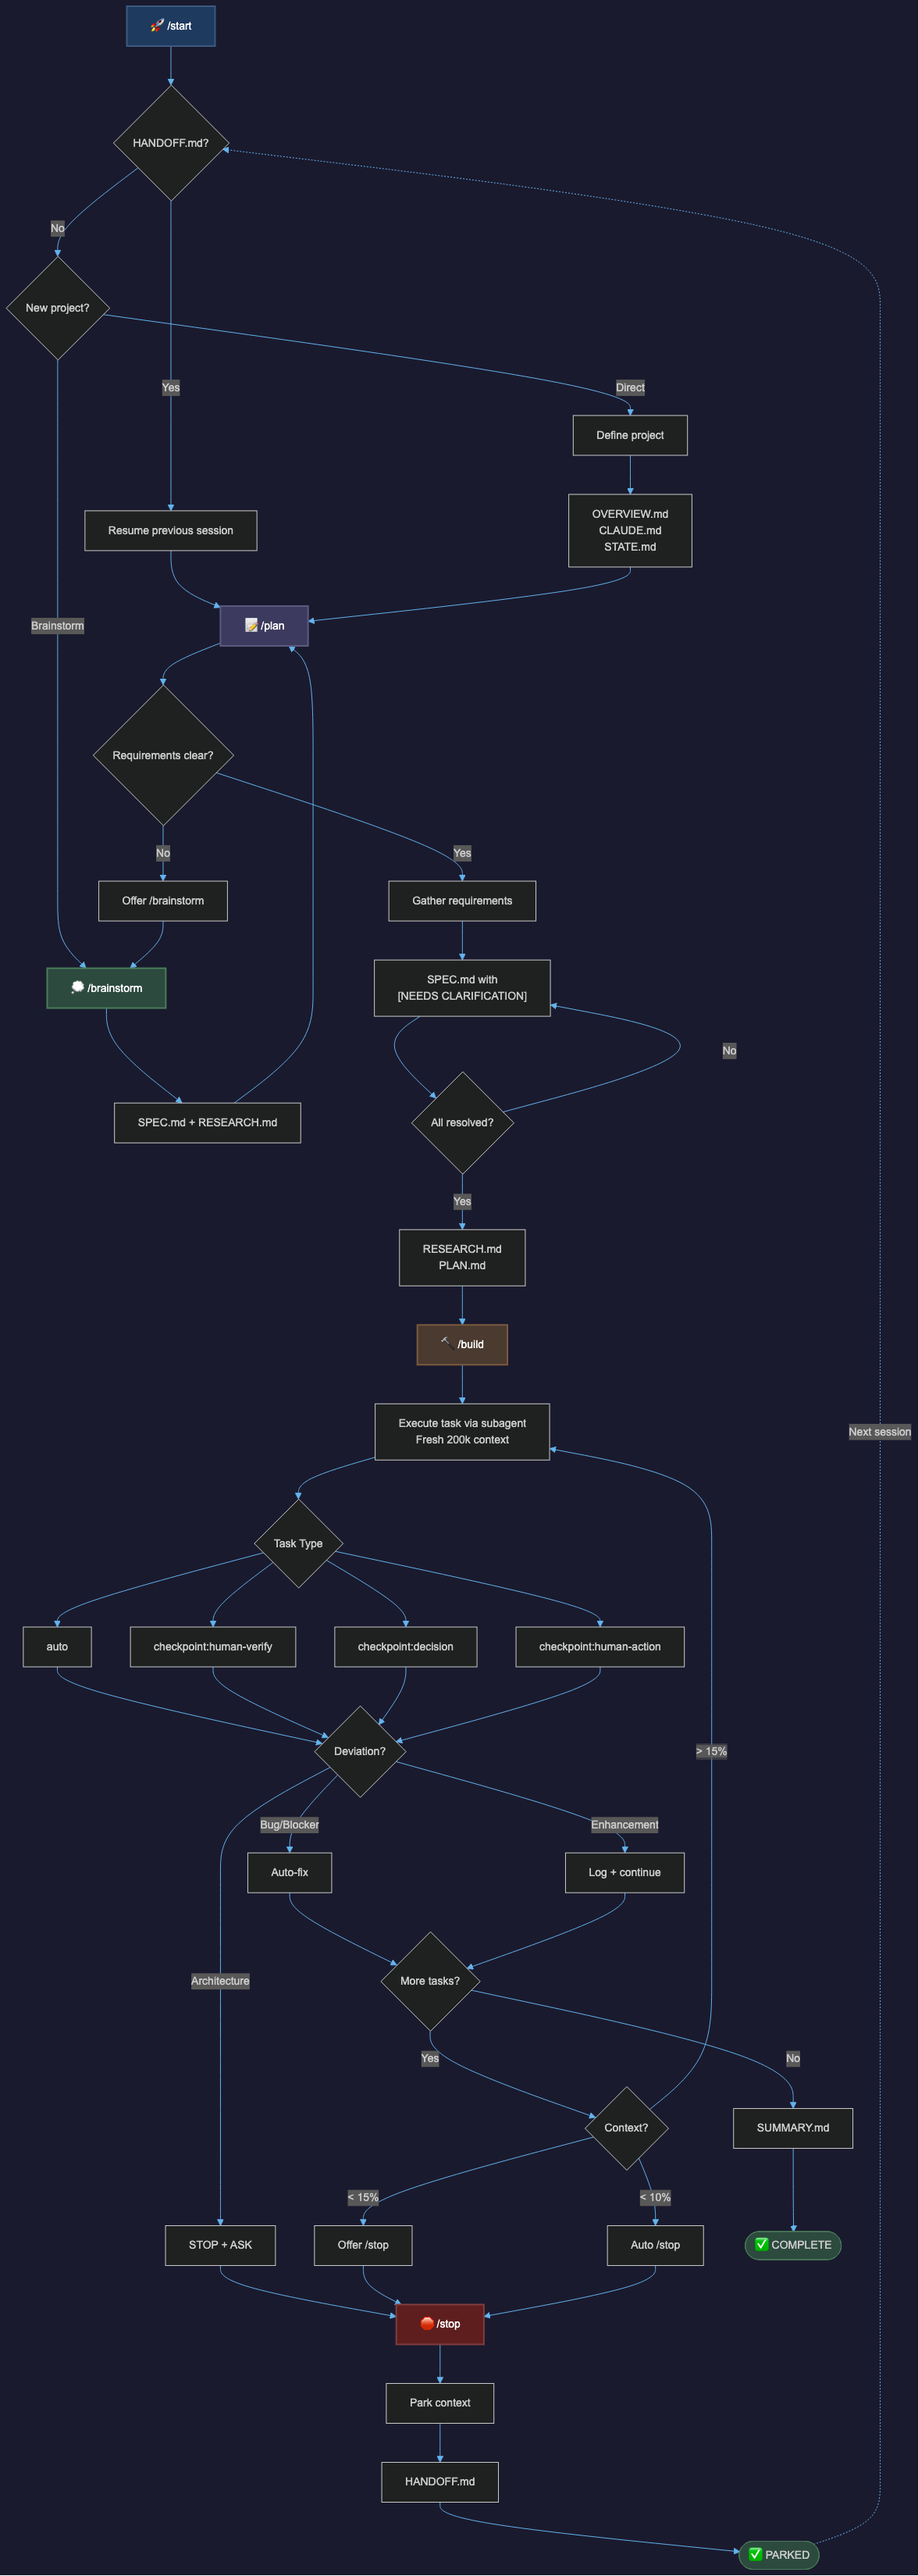
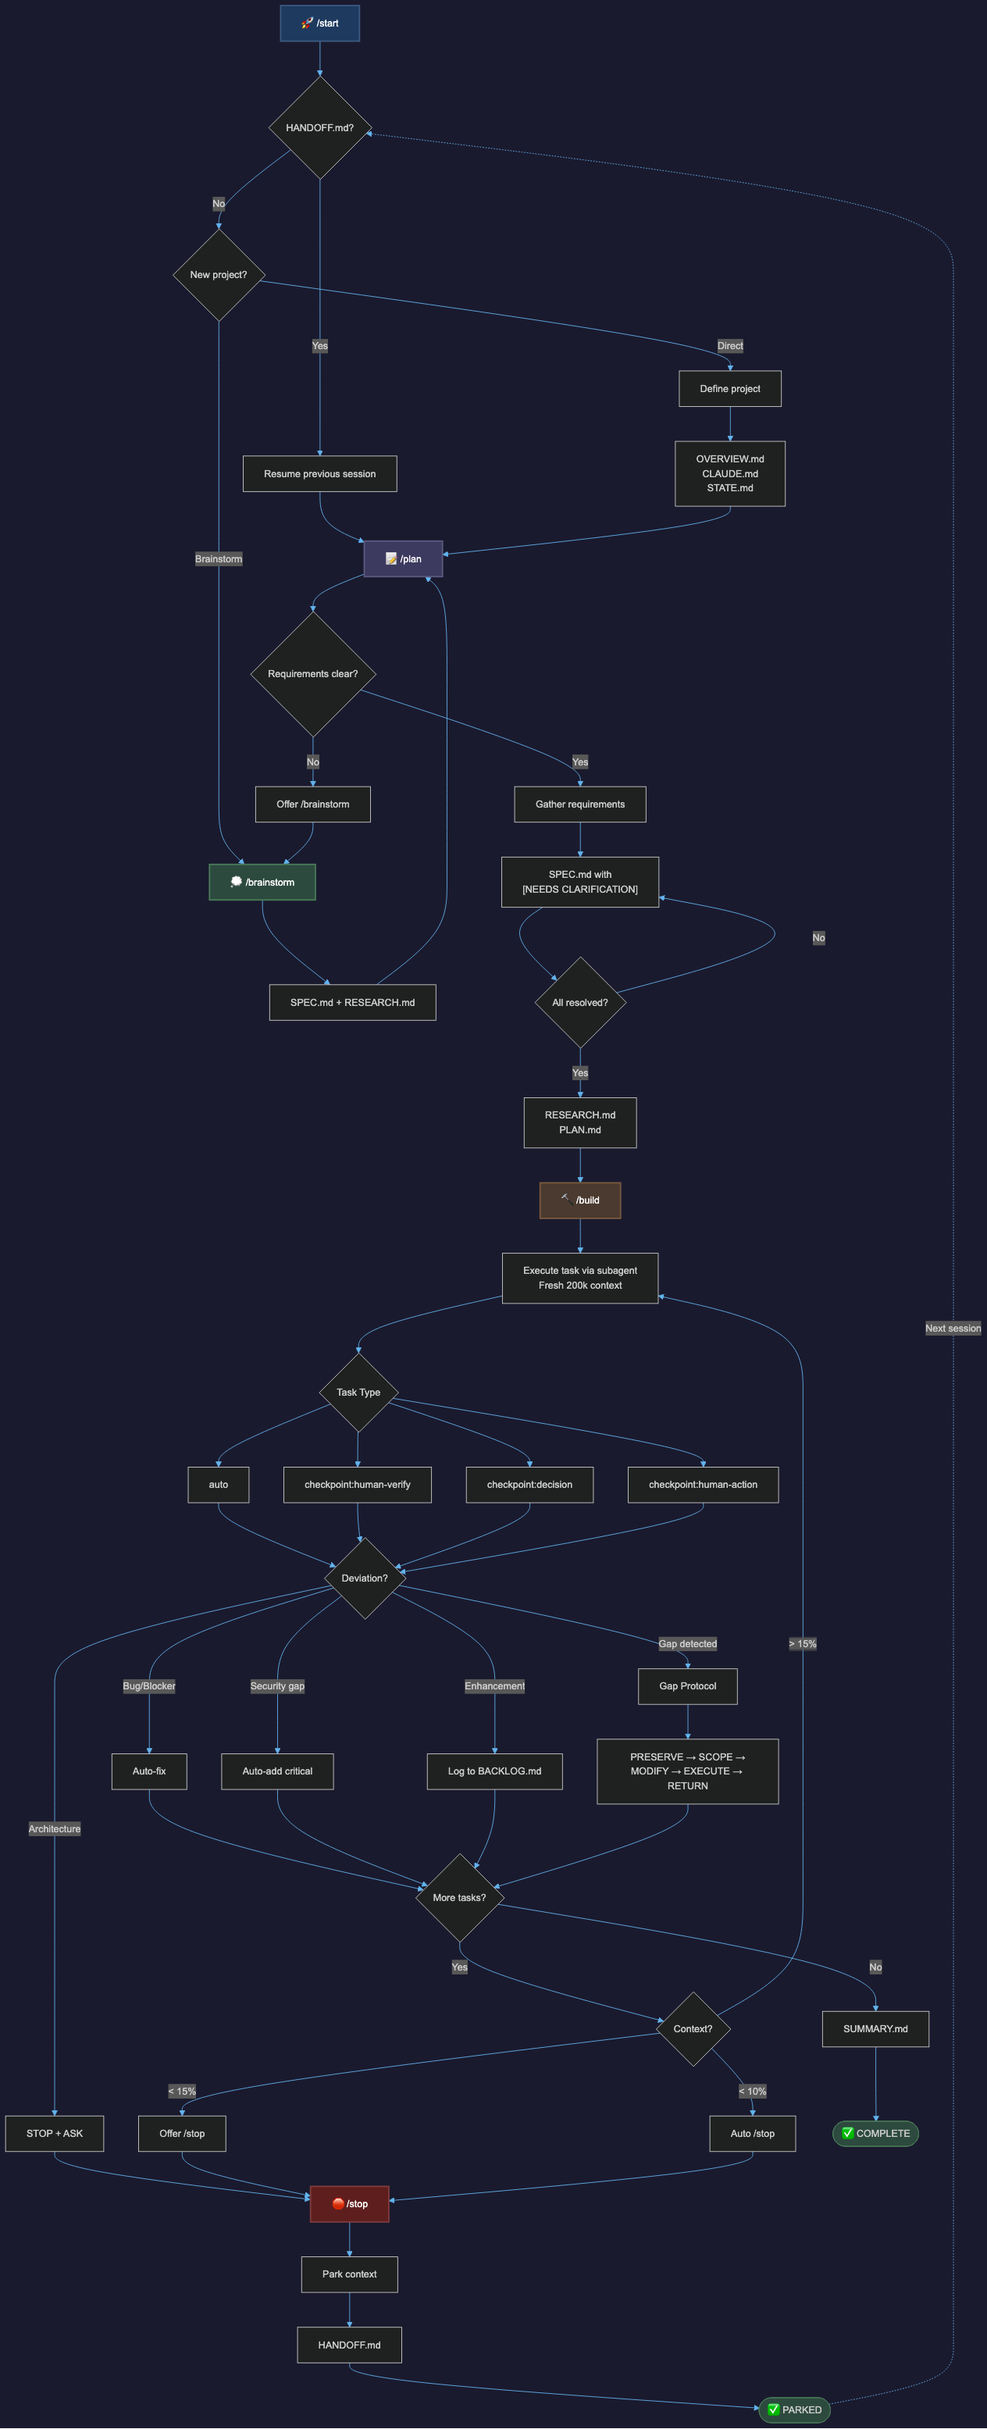
feat: complete feature 001-my-workflow with technical debt cleanup
- Update README.md with current structure and my-workflow commands
- Update STATE.md to "maintaining" stage, mark feature complete
- Update BACKLOG.md with resolved technical debt items
- Update HANDOFF.md with current completion status
- Add Gap Protocol (Rule 6) to workflow diagrams
- Add Security gap deviation rule to diagrams
- Move legacy templates to planning/archive/legacy-templates/
- Regenerate my-workflow-flow.png with updated flowchart

diff --git a/skills/my-workflow/my-workflow-flow.md b/skills/my-workflow/my-workflow-flow.md
@@ -48,8 +48,10 @@
 │     │                      checkpoint:decision | checkpoint:human-action    │
 │     │                                                                       │
 │     ├── Deviation? ──► Bug/Blocker ──► Auto-fix immediately                 │
+│     │               ├── Security gap ──► Auto-add critical fix              │
 │     │               ├── Architecture ──► STOP + ASK user                    │
-│     │               └── Enhancement ──► Log + continue                      │
+│     │               ├── Enhancement ──► Log to BACKLOG.md                   │
+│     │               └── Gap detected ──► Gap Protocol (see below)           │
 │     │                                                                       │
 │     ├── More tasks? ──► Context > 15% ──► Continue                          │
 │     │               ├── Context < 15% ──► Offer /stop                       │
@@ -97,11 +99,30 @@
 ┌─────────────────────────────────────────────────────────────────────────────┐
 │                           DEVIATION RULES                                   │
 ├─────────────────────────┬───────────────────────────────────────────────────┤
-│ Trigger                 │ Action                                            │
+│ Rule                    │ Trigger → Action                                  │
 ├─────────────────────────┼───────────────────────────────────────────────────┤
-│ Bug/Blocker found       │ Auto-fix immediately                              │
-│ Security gap            │ Auto-add critical fix                             │
-│ Architecture change     │ STOP + ASK user for decision                      │
-│ Enhancement idea        │ Log to STATE.md, continue                         │
+│ 1. Auto-fix bugs        │ Broken behavior → Fix immediately, note STATE.md  │
+│ 2. Auto-add critical    │ Security/correctness gap → Add immediately        │
+│ 3. Auto-fix blockers    │ Can't proceed → Fix immediately                   │
+│ 4. Ask architectural    │ Major structural change → STOP + ASK user         │
+│ 5. Log enhancements     │ Nice-to-have idea → Append to BACKLOG.md          │
+│ 6. Gap Protocol         │ Prerequisite missing → See Gap Protocol below     │
 └─────────────────────────┴───────────────────────────────────────────────────┘
+
+
+┌─────────────────────────────────────────────────────────────────────────────┐
+│                           GAP PROTOCOL (Rule 6)                             │
+├─────────────────────────────────────────────────────────────────────────────┤
+│                                                                             │
+│  When a plan-modifying gap is detected:                                     │
+│                                                                             │
+│  1. PRESERVE ──► Push current task context to Gap Stack in STATE.md         │
+│  2. SCOPE ────► Assess impact: new task? different feature?                 │
+│  3. MODIFY ───► Update PLAN.md if needed (mark "Added via Gap Protocol")    │
+│  4. EXECUTE ──► Complete the gap task                                       │
+│  5. RETURN ───► Pop stack, show reminder, resume original task              │
+│                                                                             │
+│  For user additions ("also add X"): Show impact assessment first            │
+│                                                                             │
+└─────────────────────────────────────────────────────────────────────────────┘
 ```

diff --git a/README.md b/README.md
@@ -1,64 +1,70 @@
 # Claude Customizations
 
-Version-controlled Claude Code skills and agents.
+Personal Claude Code customizations - skills, commands, agents, hooks, and plugins that extend Claude's capabilities for specific workflows and preferences.
 
 ## Structure
 
 ```
 claude-customizations/
-├── skills/           # Claude Skills (auto-activate based on context)
-│   ├── skill-assistant/   # Find, install, create skills & agents
-│   └── skill-creator/     # Skill creation guidance with scripts
-└── agents/           # Claude Agents (independent workers)
+├── skills/           # 33 active SKILL.md files (auto-activate based on context)
+│   └── my-workflow/  # Core workflow system (/start, /plan, /build, /stop)
+├── commands/         # 72 slash command definitions (explicit invocation)
+├── agents/           # 142 subagent definitions (specialized workers via Task tool)
+├── hooks/            # Event-driven behaviors
+├── mcp/              # MCP server configurations
+├── planning/         # Project planning, state, and specifications
+│   ├── OVERVIEW.md   # Project vision, scope, and governance
+│   ├── STATE.md      # Current project state and progress
+│   ├── BACKLOG.md    # Improvements and technical debt
+│   └── specs/        # Feature specifications (SPEC.md, PLAN.md, RESEARCH.md)
+└── archive/          # Archived/deprecated items
 ```
 
 ## How It Works
 
 This repo is symlinked to `~/.claude/`:
+
 - `~/.claude/skills` → `./skills/`
+- `~/.claude/commands` → `./commands/`
 - `~/.claude/agents` → `./agents/`
 
 Changes here are immediately available in Claude Code.
 
-## Skills vs Agents
+## Core Workflow
 
-| Aspect | Skills | Agents |
-|--------|--------|--------|
-| Invocation | Automatic (Claude decides) | Explicit or delegated |
-| Context | Shares main conversation | Own context window |
-| Use for | Instructions, workflows | Independent workers |
-| Model | Inherits | Can specify (haiku/opus) |
+The **my-workflow** skill provides a unified development workflow:
 
-## Adding New Skills
+| Command  | Purpose                                                     |
+| -------- | ----------------------------------------------------------- |
+| `/start` | Initialize project context, detect brownfield vs greenfield |
+| `/plan`  | Create spec-driven plans with research and task breakdown   |
+| `/build` | Execute plans with deviation rules and scope control        |
+| `/stop`  | Create handoff documentation for context continuity         |
 
-```bash
-mkdir skills/my-skill
-# Create skills/my-skill/SKILL.md with frontmatter
-```
+## Skills vs Agents vs Commands
 
-## Adding New Agents
+| Aspect     | Skills                     | Agents                   | Commands               |
+| ---------- | -------------------------- | ------------------------ | ---------------------- |
+| Invocation | Automatic (Claude decides) | Task tool delegation     | Explicit `/command`    |
+| Context    | Shares conversation        | Own context window       | Shares conversation    |
+| Use for    | Instructions, workflows    | Independent workers      | User-triggered actions |
+| Model      | Inherits                   | Can specify (haiku/opus) | Inherits               |
 
-```bash
-# Create agents/my-agent.md with frontmatter
-```
+## Adding New Items
+
+**Skills**: Create `skills/my-skill/SKILL.md` with proper frontmatter
+
+**Commands**: Create `commands/my-command.md` following existing patterns
+
+**Agents**: Create `agents/my-agent.md` with frontmatter including model/description
+
+## Development Workflow
+
+For detailed guidelines, see [planning/OVERVIEW.md](planning/OVERVIEW.md).
 
 ## Version Control
 
-All changes are tracked via git:
-- Create branches for experimental changes
-- Use PRs for review before merging
+- Use branches for experimental changes
+- Create PRs for review before merging
 - Tag releases for stable versions
-
-## Installed Skills
-
-### skill-assistant
-Find, install, and create Claude Skills and Agents. Includes:
-- 27 pre-built skills from awesome-claude-skills catalog
-- Templates for creating new skills and agents
-- Auto-generation capabilities
-
-### skill-creator
-Comprehensive guide for creating skills with helper scripts:
-- `scripts/init_skill.py` - Initialize new skills
-- `scripts/package_skill.py` - Package for distribution
-- `scripts/quick_validate.py` - Validate skill structure
+- This repo is symlinked to ~/.claude/, so changes are immediately live

diff --git a/planning/HANDOFF.md b/planning/HANDOFF.md
@@ -45,29 +45,20 @@ Implement the my-workflow system - a personalized workflow with 4 commands (`/st
 </work_completed>
 
 <work_remaining>
-## Uncommitted Changes
 
-There are uncommitted changes that need to be committed:
+## Completed Since Last Handoff
 
-### Deleted (old structure)
-- `planning/specs/001-my-workflow/` - old directory with verbose files
-
-### Added (new structure)
-- `planning/specs/my-workflow/` - consolidated feature spec
-  - SPEC.md (condensed from original)
-  - RESEARCH.md (condensed from original)
-  - PLAN.md (task summary, all tasks done)
-  - curation-log.md (preserved)
-  - archive/ (old spec-checklist.md, spike-external-refs.md)
-
-**Action needed**: Commit the consolidation from `001-my-workflow/` to `my-workflow/`
+- [x] Directory consolidation committed (001-my-workflow/ → my-workflow/)
+- [x] Consolidated duplicate templates (moved legacy to planning/archive/legacy-templates/)
+- [x] Updated README.md to reflect new planning/ structure
+- [x] Updated STATE.md to reflect feature completion
 
 ## Optional Follow-ups (from BACKLOG.md)
 
-- [ ] Consolidate duplicate templates (planning/specs/templates/ vs skills/my-workflow/templates/)
-- [ ] Update README.md to reflect new planning/ structure
 - [ ] Audit skills vs agents distinction (which should be which?)
 - [ ] Revisit workflow task granularity philosophy
+- [ ] Create /curate command for skill organization
+- [ ] Add skill dependency validation
 </work_remaining>
 
 <attempted_approaches>
@@ -127,9 +118,11 @@ There are uncommitted changes that need to be committed:
 </critical_context>
 
 <current_state>
-## Status: Ready for PR
 
-All feature implementation is complete:
+## Status: Feature Complete
+
+All feature implementation and cleanup is complete:
+
 - [x] my-workflow skill created
 - [x] All 5 workflows implemented
 - [x] 4 command wrappers created
@@ -137,15 +130,15 @@ All feature implementation is complete:
 - [x] Project migrated to use workflow
 - [x] Curation completed
 - [x] Documentation updated
-
-## Uncommitted Work
-Directory consolidation from `001-my-workflow/` to `my-workflow/` - needs commit.
+- [x] Technical debt items resolved (templates consolidated, README updated)
+- [x] STATE.md updated to "maintaining" stage
 
 ## Branch
-`feature/001-my-workflow` - up to date with origin
+
+`feature/001-my-workflow` - ready for PR to main
 
 ## Next Steps
-1. Commit the directory consolidation
-2. Update STATE.md stage to `stopping` or `complete`
-3. Create PR to merge into main
+
+1. Commit remaining changes
+2. Create PR to merge into main
 </current_state>

diff --git a/planning/STATE.md b/planning/STATE.md
@@ -1,26 +1,24 @@
 # Project State
 
-**Stage**: building
-**Last Updated**: 2026-01-18
+**Stage**: maintaining
+**Last Updated**: 2026-01-19
 
 ## Current Focus
 
-Completing feature 001-my-workflow (migration to my-workflow structure)
+Technical debt cleanup and README updates
 
 ## Progress
 
 - [x] Project structure established (skills/, commands/, agents/, etc.)
 - [x] Constitution ratified (now in OVERVIEW.md)
-- [x] Feature 001-my-workflow implemented (95%)
-- [x] planning/ structure adopted (this migration)
-- [ ] Feature 001-my-workflow verified (T046-T049, T053, T058-T059)
+- [x] Feature 001-my-workflow implemented and verified
+- [x] planning/ structure adopted
 
 ## Active Work
 
-**Feature**: 001-my-workflow
+**Focus**: Technical debt from BACKLOG.md
 **Branch**: feature/001-my-workflow
-**Status**: Implementation complete, pending manual verification
-**Remaining Tasks**: T046, T047, T048, T049, T053, T058, T059
+**Status**: Feature complete, cleaning up technical debt
 
 ## Decisions
 

diff --git a/planning/BACKLOG.md b/planning/BACKLOG.md
@@ -50,5 +50,7 @@ Persistent record of improvements, ideas, and technical debt discovered during w
 
 ## Technical Debt
 
-- [ ] Consolidate duplicate template files (planning/specs/templates/ vs skills/my-workflow/templates/)
-- [ ] Review and update README.md to reflect new planning/ structure
+- [x] Consolidate duplicate template files (planning/specs/templates/ vs skills/my-workflow/templates/)
+  - **Resolution**: Moved legacy templates to planning/archive/legacy-templates/. The skills/my-workflow/templates/ is now the single source of truth.
+- [x] Review and update README.md to reflect new planning/ structure
+  - **Resolution**: Updated README.md with current structure, my-workflow commands, and planning/ directory documentation.
